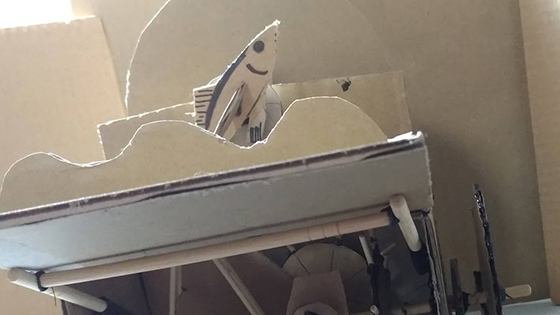
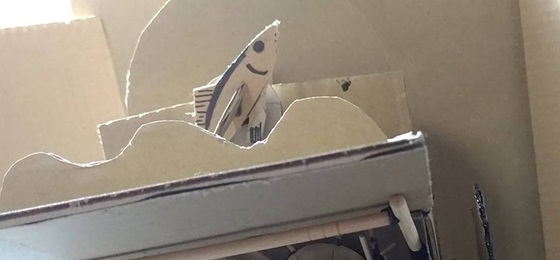
[fix] cover

diff --git a/css/works.css b/css/works.css
@@ -21,7 +21,7 @@
 	width: 100%;
 	height: 100%;
 	object-fit: cover;
-	object-position: 50% 0%;
+	object-position: 50% 50%;
 	overflow: hidden;
 }
 
